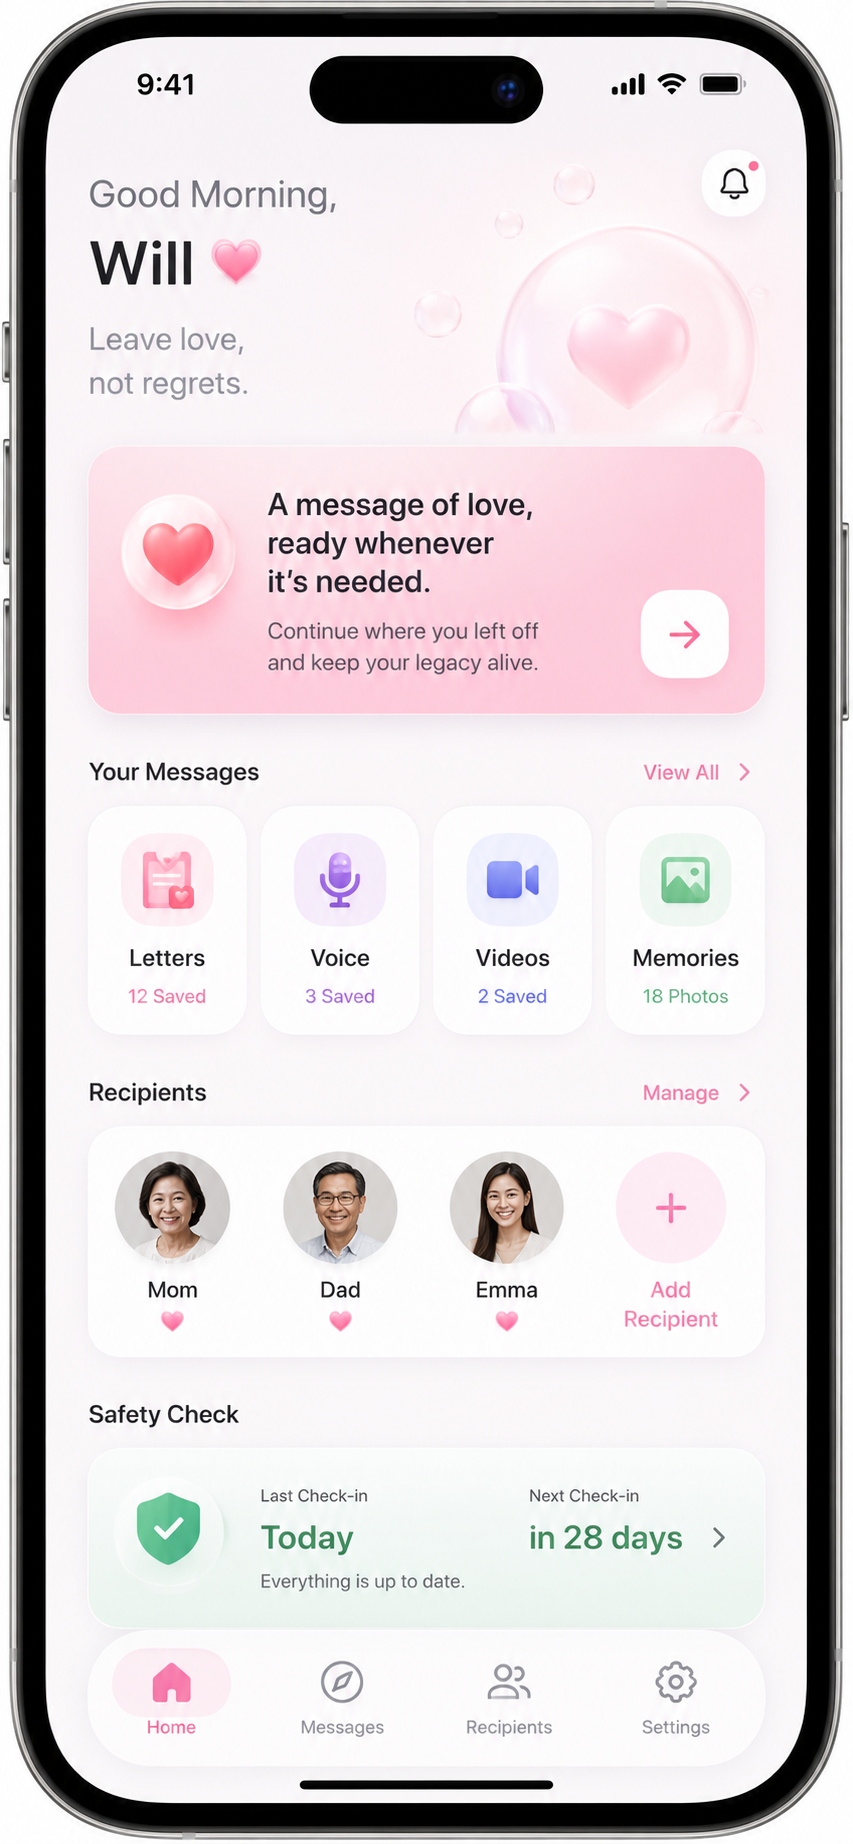
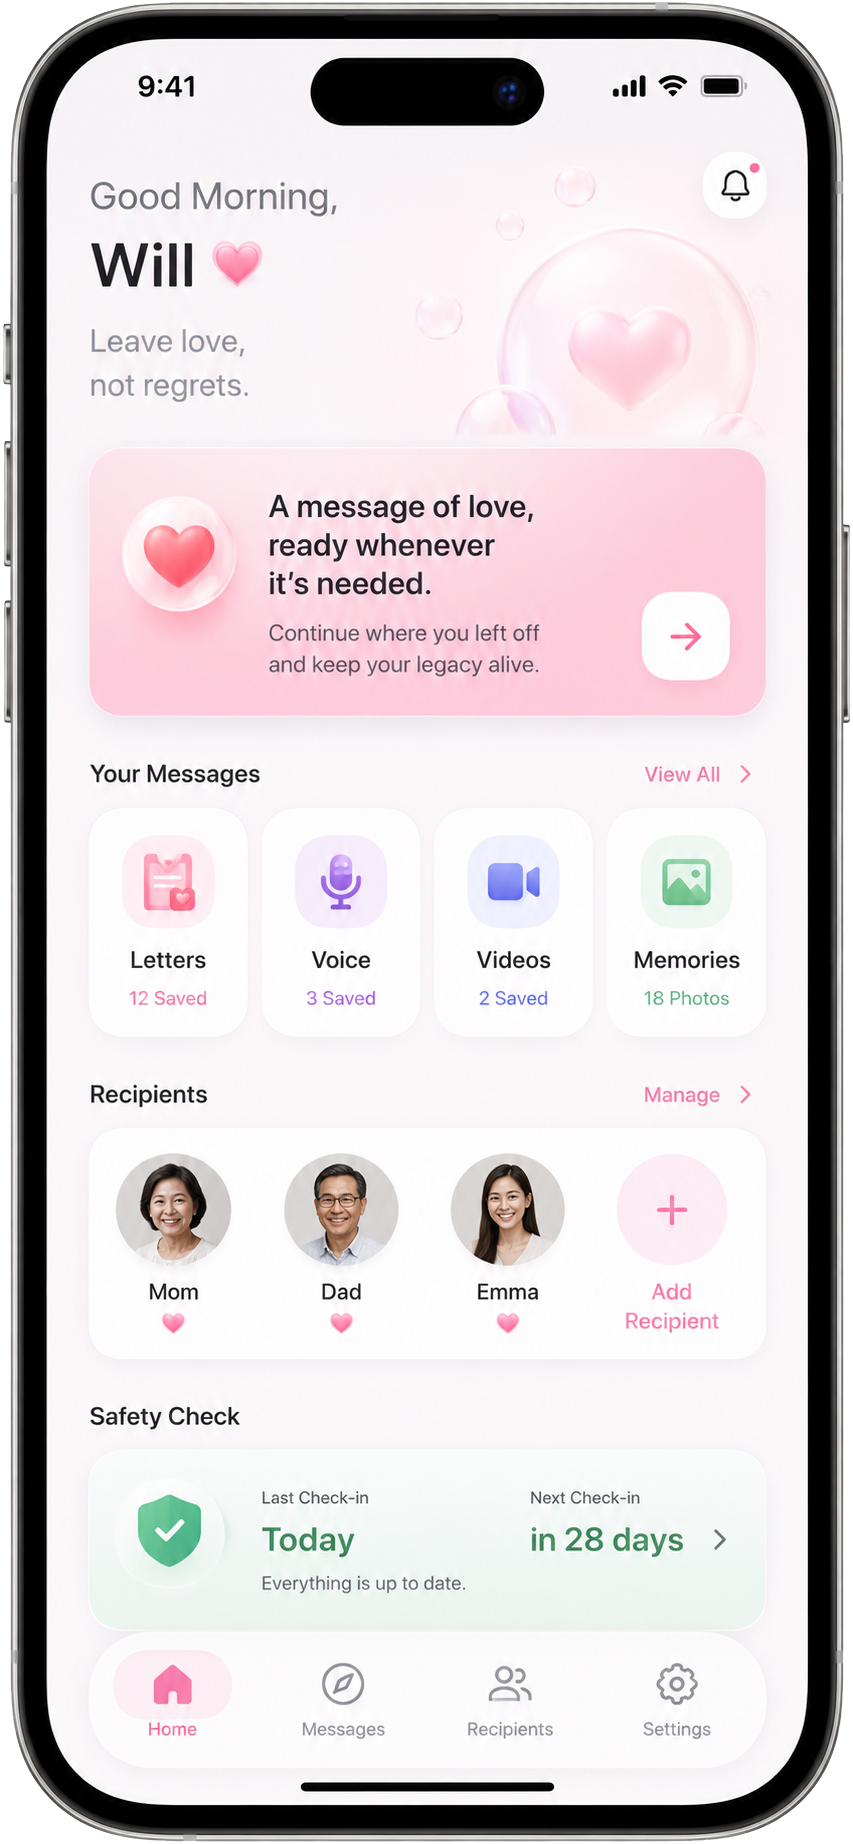
update

diff --git a/app/globals.css b/app/globals.css
@@ -519,3 +519,70 @@ main {
   }
 
 }
+
+/* =========================
+   Global Page Layout
+========================= */
+
+* {
+  box-sizing: border-box;
+}
+
+html {
+  scroll-behavior: smooth;
+}
+
+body {
+  margin: 0;
+  overflow-x: hidden;
+  background: #ffffff;
+}
+
+/* 所有 section 统一使用这个容器 */
+.container {
+  width: min(1200px, calc(100% - 48px));
+  margin-left: auto;
+  margin-right: auto;
+}
+
+/* 所有 section 统一上下间距 */
+.section {
+  width: 100%;
+  padding: 96px 0;
+}
+
+/* section 标题区域统一居中 */
+.section-header {
+  max-width: 760px;
+  margin: 0 auto 48px;
+  text-align: center;
+}
+
+.section-header h2 {
+  margin: 0 0 12px;
+}
+
+.section-header p {
+  max-width: 680px;
+  margin: 0 auto;
+  line-height: 1.7;
+}
+
+/* 平板 */
+@media (max-width: 900px) {
+  .section {
+    padding: 72px 0;
+  }
+}
+
+/* 手机 */
+@media (max-width: 600px) {
+  .container {
+    width: min(100% - 32px, 1200px);
+  }
+
+  .section {
+    padding: 56px 0;
+  }
+}
+

diff --git a/components/sections/FeaturesSection.tsx b/components/sections/FeaturesSection.tsx
@@ -1,35 +1,9 @@
-const features = [
-  {
-    title: "Letters",
-    description:
-      "Write meaningful letters that can be delivered when the time is right.",
-    icon: "💌",
-  },
-  {
-    title: "Voice Messages",
-    description:
-      "Let your loved ones hear your voice whenever they need comfort.",
-    icon: "🎙️",
-  },
-  {
-    title: "Videos",
-    description:
-      "Record precious moments that will never fade away.",
-    icon: "🎥",
-  },
-  {
-    title: "Memories",
-    description:
-      "Keep your favorite photos and stories together in one safe place.",
-    icon: "📷",
-  },
-];
-
 export default function FeaturesSection() {
   return (
-    <section className="bg-pink-50/40 py-28">
-      <div className="mx-auto max-w-7xl px-6">
-        <div className="text-center">
+    <section className="section bg-pink-50/40">
+      <div className="container">
+
+        <div className="section-header">
           <h2 className="text-4xl font-bold">
             Everything you need to preserve your legacy
           </h2>
@@ -39,15 +13,19 @@ export default function FeaturesSection() {
           </p>
         </div>
 
-        <div className="mt-16 grid gap-8 md:grid-cols-2 lg:grid-cols-4">
+        <div className="grid gap-8 md:grid-cols-2 lg:grid-cols-4">
           {features.map((feature) => (
             <div
               key={feature.title}
               className="rounded-3xl bg-white p-8 shadow-sm transition hover:-translate-y-1 hover:shadow-lg"
             >
-              <div className="mb-6 text-5xl">{feature.icon}</div>
+              <div className="mb-6 text-5xl">
+                {feature.icon}
+              </div>
 
-              <h3 className="text-xl font-semibold">{feature.title}</h3>
+              <h3 className="text-xl font-semibold">
+                {feature.title}
+              </h3>
 
               <p className="mt-4 leading-7 text-gray-500">
                 {feature.description}
@@ -55,6 +33,7 @@ export default function FeaturesSection() {
             </div>
           ))}
         </div>
+
       </div>
     </section>
   );

diff --git a/components/sections/WhySection.tsx b/components/sections/WhySection.tsx
@@ -1,23 +1,25 @@
 export default function WhySection() {
   return (
-    <section className="bg-white py-28">
-      <div className="mx-auto max-w-4xl px-6 text-center">
-        <span className="rounded-full bg-pink-100 px-4 py-2 text-sm font-medium text-pink-600">
-          Why Forever Alive
-        </span>
+    <section className="section bg-white">
+      <div className="container">
+        <div className="section-header">
+          <span className="inline-flex rounded-full bg-pink-100 px-4 py-2 text-sm font-medium text-pink-600">
+            Why Forever Alive
+          </span>
 
-        <h2 className="mt-8 text-4xl font-bold tracking-tight text-gray-900 md:text-5xl">
-          Some words are too important
-          <br />
-          to be left unsaid.
-        </h2>
+          <h2 className="mt-8 text-4xl font-bold tracking-tight text-gray-900 md:text-5xl">
+            Some words are too important
+            <br />
+            to be left unsaid.
+          </h2>
 
-        <p className="mx-auto mt-8 max-w-3xl text-lg leading-8 text-gray-500">
-          We prepare for our future in many ways, but we rarely prepare the
-          messages, memories, and moments our loved ones may one day need most.
-          Forever Alive helps you preserve your voice, your love, and your
-          legacy—so the people who matter most can always feel your presence.
-        </p>
+          <p className="mt-8 text-lg leading-8 text-gray-500">
+            We prepare for our future in many ways, but we rarely prepare the
+            messages, memories, and moments our loved ones may one day need most.
+            Forever Alive helps you preserve your voice, your love, and your
+            legacy—so the people who matter most can always feel your presence.
+          </p>
+        </div>
       </div>
     </section>
   );